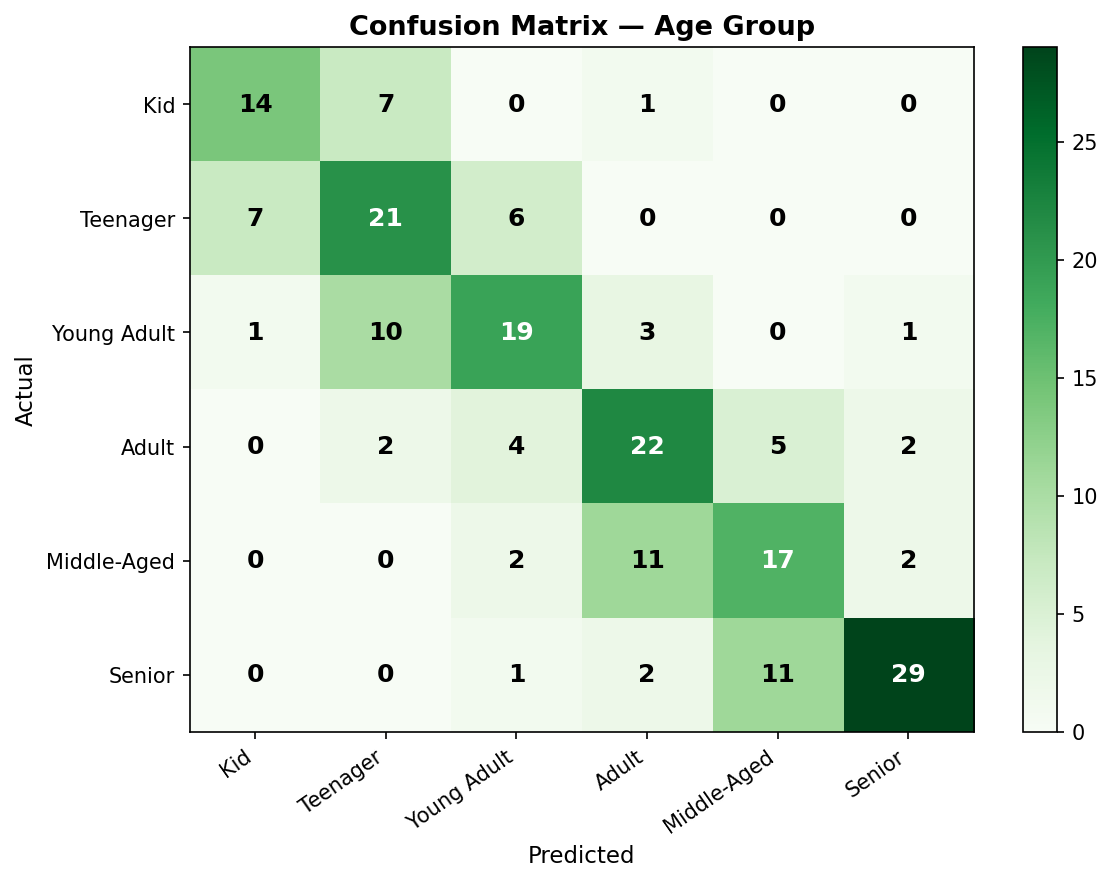
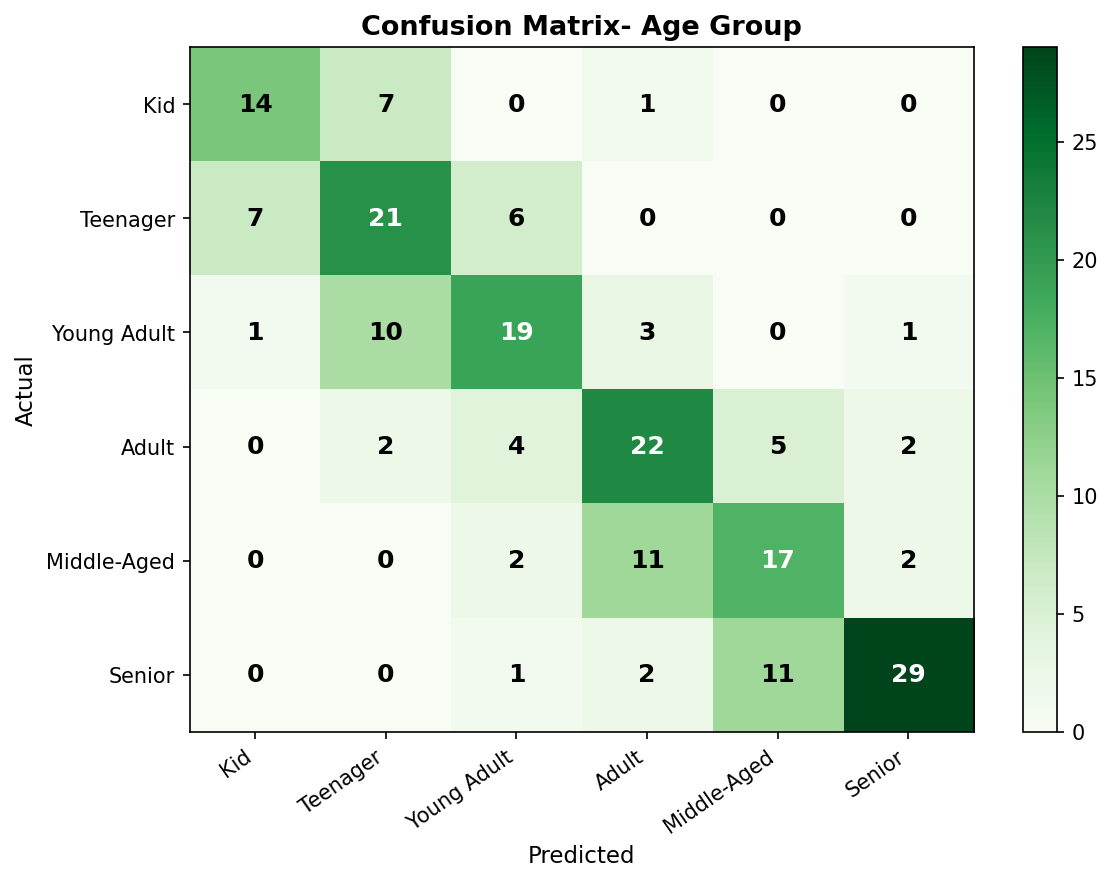
improved logic and feature comparison

Changed region(s): [[0.3055, 0.0, 0.7332, 0.0612]]

diff --git a/classification.py b/classification.py
@@ -5,6 +5,7 @@ import pandas as pd
 import numpy as np
 import matplotlib.pyplot as plt
 import warnings
+import datetime
 warnings.filterwarnings("ignore")
 
 from sklearn.ensemble import RandomForestClassifier
@@ -16,10 +17,12 @@ csv_path = "quiz_responses.csv"
 test_size = 0.2
 random_state = 42
 n_estimators = 300
+current_year = datetime.date.today().year
 
 features = [
     "grief", "rage", "control", "numb", "secrecy", "obsession", "compassion", "trauma", "envy", "chaos", "revenge"
 ]
+age_order = ["Kid", "Teenager", "Young Adult", "Adult", "Middle-Aged", "Senior"]
 palette_age = {
     "Kid": "#F4A261", 
     "Teenager": "#E63946",
@@ -37,18 +40,63 @@ palette_city = {
     "Noida":     "#8D99AE",
 }
 
+n_traits = len(features)
+angles = np.linspace(0, 2 * np.pi, n_traits, endpoint=False).tolist() + [0]
+angle_deg = np.degrees(angles[:-1])
+
 def savefig(name):
     plt.savefig(name, dpi=150, bbox_inches="tight")
     plt.close()
     print(f"Saved: {name}")
 
+def age_to_group(age):
+    if   age <= 9:  return "Kid"
+    elif age <= 17: return "Teenager"
+    elif age <= 27: return "Young Adult"
+    elif age <= 39: return "Adult"
+    elif age <= 49: return "Middle-Aged"
+    elif age <= 60: return "Senior"
+    return None
+
+def plot_radar(ax, means_row, color, title, top_trait):
+    vals = means_row.values.tolist() + [means_row.values[0]]
+    ax.plot(angles, vals, color=color, linewidth=2)
+    ax.fill(angles, vals, color=color, alpha=0.25)
+    ax.set_thetagrids(angle_deg, labels=features, fontsize=8)
+    ax.set_ylim(0, 4)
+    ax.set_yticks([1, 2, 3, 4])
+    ax.set_yticklabels(["1", "2", "3", "4"], size=7, color="grey")
+    ax.set_title(title, size=12, fontweight="bold", color=color, pad=12)
+    ax.annotate(f"↑ {top_trait}", xy=(0.5, -0.12), xycoords="axes fraction",
+                ha="center", fontsize=9, color=color, fontstyle="italic")
+ 
+def plot_confusion_matrix(y_true, y_pred, labels, title, cmap, filename):
+    cm = confusion_matrix(y_true, y_pred, labels=labels)
+    fig, ax = plt.subplots(figsize=(8, 6))
+    im = ax.imshow(cm, cmap=cmap, aspect="auto")
+    plt.colorbar(im, ax=ax)
+    ax.set_xticks(range(len(labels)))
+    ax.set_yticks(range(len(labels)))
+    ax.set_xticklabels(labels, rotation=35, ha="right", fontsize=10)
+    ax.set_yticklabels(labels, fontsize=10)
+    ax.set_xlabel("Predicted", fontsize=11)
+    ax.set_ylabel("Actual", fontsize=11)
+    ax.set_title(title, fontsize=13, fontweight="bold")
+    thresh = cm.max() / 2
+    for i in range(len(labels)):
+        for j in range(len(labels)):
+            ax.text(j, i, str(cm[i, j]), ha="center", va="center",
+                    fontsize=12, fontweight="bold",
+                    color="white" if cm[i, j] > thresh else "black")
+    fig.tight_layout()
+    savefig(filename)
+
 #load and prep
 
 df = pd.read_csv(csv_path)
-df["age"] = 2026 - df["birthyear"]
-bins = [0, 9, 17, 27, 39, 49, 60]
-age_order = ["Kid", "Teenager", "Young Adult", "Adult", "Middle-Aged", "Senior"]
-df["age_group"] = pd.cut(df["age"], bins= bins, labels=age_order).astype(str)
+df["age"] = current_year - df["birthyear"]
+df["age_group"] = df["age"].apply(age_to_group)
+df = df.dropna(subset=["age_group"])
 
 print(f"Loaded {len(df)} rows")
 print("Age groups:", df["age_group"].value_counts().to_dict())
@@ -59,7 +107,7 @@ print("Cities:", df["city"].value_counts().to_dict())
 def build_trait_features(data):
     feat_df = data[features].copy()
     for a,b in combinations (features, 2):
-        feat_df[f"{a}_vs_{b}"] = data[a] - data[b]
+        feat_df[f"{a}_vs_{b}"] = data[a].values - data[b].values
     return feat_df
 x_full = build_trait_features(df)
 print(f"Total features (raw + parirwise diffs): {x_full.shape[1]}\n")
@@ -96,41 +144,24 @@ ax.set_xticks(range(len(features)))
 ax.set_xticklabels(features, rotation=35, ha="right", fontsize=11)
 ax.set_yticks(range(len(age_order)))
 ax.set_yticklabels(age_order, fontsize=11)
-for i in range(len(age_order)):
-    for j in range(len(features)):
-        v = age_means.values[i, j]
-        ax.text(j, i, f"{v:.1f}", ha="center", va="center", fontsize=9, color="black", fontweight="bold")
+
+for i, grp in enumerate(age_order):
+    for j, trait in enumerate(features):
+        ax.text(j, i, f"{age_means.loc[grp, trait]:.1f}",
+                ha="center", va="center", fontsize=9, color="black", fontweight="bold")
 plt.colorbar(im, ax=ax, label="Normalised Intensity")
 ax.set_title("Trait Dominance by Age Group", fontsize=14, fontweight="bold", pad=12)
 plt.tight_layout()
 savefig("age_trait_heatmap.png")
 
 #2. Radar charts
-n = len(features)
-angles = np.linspace(0, 2*np.pi, n, endpoint=False).tolist()
-angles += angles[:1]
-
 fig, axes = plt.subplots(2,3, figsize=(14,9), subplot_kw=dict(polar=True))
 fig.suptitle("Emotional Trait Profiles- Age Groups", fontsize=15, fontweight="bold")
-axes= axes.flatten()
 
-for idx, grp in enumerate(age_order):
-    ax = axes[idx]
-    vals = age_means.loc[grp].values.tolist() + [age_means.loc[grp].values[0]]
-    color = palette_age[grp]
-    ax.plot(angles, vals, color=color, linewidth=2)
-    ax.fill(angles, vals, color=color, alpha=0.25)
-    ax.set_xticks(angles[:-1])
-    ax.set_xticklabels(features, size=8)
-    ax.set_ylim(0,4)
-    ax.set_yticks([1,2,3,4])
-    ax.set_yticklabels(["1", "2", "3", "4"], size=7, color="grey")
-    ax.set_title(grp, size=12, fontweight="bold", color=color, pad=12)
-    top_trait = age_means.loc[grp].idxmax()
-    ax.annotate(f"{top_trait}", xy=(0.5,-0.12), xycoords="axes fraction",
-                ha="center", fontsize=9, color=color, fontstyle="italic")
+for ax, grp in zip(axes.flatten(), age_order):
+    plot_radar(ax, age_means.loc[grp], palette_age[grp], grp, age_means.loc[grp].idxmax())
     
-plt.tight_layout()
+fig.tight_layout()
 savefig("age_radar_profiles.png")
 
 # 3. Dominant & weakest trait per age group
@@ -160,100 +191,129 @@ ax.set_ylabel("Mean score (0-4)", fontsize=11)
 ax.set_title("Strongest & Weakest Trait per Age Group", fontsize=13, fontweight="bold")
 ax.legend(fontsize=9)
 ax.grid(axis="y", alpha=0.3)
+fig.tight_layout()
 savefig("age_dominant_traits.png")
 
 # 4. Confusion Matrix
-def plot_confusion_matrix(y_true, y_pred, labels, title, cmap, filename):
-    cm = confusion_matrix(y_true, y_pred, labels=labels)
-    fig, ax = plt.subplots(figsize=(8, 6))
-    im = ax.imshow(cm, cmap=cmap, aspect="auto")
-    plt.colorbar(im, ax=ax)
-    ax.set_xticks(range(len(labels)))
-    ax.set_yticks(range(len(labels)))
-    ax.set_xticklabels(labels, rotation=35, ha="right", fontsize=10)
-    ax.set_yticklabels(labels, fontsize=10)
-    ax.set_xlabel("Predicted", fontsize=11)
-    ax.set_ylabel("Actual", fontsize=11)
-    ax.set_title(title, fontsize=13, fontweight="bold")
-    thresh = cm.max() / 2
-    for i in range(len(labels)):
-        for j in range(len(labels)):
-            ax.text(j, i, str(cm[i, j]), ha="center", va="center",
-                    fontsize=12, fontweight="bold",
-                    color="white" if cm[i, j] > thresh else "black")
-    plt.tight_layout()
-    savefig(filename)
- 
-plot_confusion_matrix(y_te_age, y_pred_age, age_order, "Confusion Matrix — Age Group", 
-                      "Greens", "age_confusion_matrix.png")
+plot_confusion_matrix(y_te_age, y_pred_age, age_order,
+                      "Confusion Matrix- Age Group", "Greens", "age_confusion_matrix.png")
 
 # City Classification Visualisations
 
 city_order = sorted(df["city"].unique().tolist())
 city_means = df.groupby("city")[features].mean().loc[city_order]
+n_cities = len(city_order)
 
 # 1. Heatmap
 fig, ax = plt.subplots(figsize=(13,7))
 data_norm_c=(city_means-city_means.min())/(city_means.max()-city_means.min())
 im2= ax.imshow(data_norm_c.values, cmap="Blues", aspect="auto", vmin=0, vmax=1)
-ax.set_x(range(len(features)))
+ax.set_xticks(range(len(features)))
 ax.set_xticklabels(features, rotation=35, ha="right", fontsize=11)
-ax.set_yticks(range(len(city_order)))
+ax.set_yticks(range(n_cities))
 ax.set_yticklabels(city_order, fontsize=11)
 
-for i in range (len(city_order)):
-    for j in range(len(features)):
-        v = city_means.values[i,j]
-        ax.text(j,i, f"{v:.1f}", ha="center", va="center",
-                fontsize=9, color="black", fontweight="bold")
+for i, city in enumerate(city_order):
+    for j, trait in enumerate(features):
+        ax.text(j, i, f"{city_means.loc[city, trait]:.1f}",
+                ha="center", va="center", fontsize=9, color="black", fontweight="bold")
 plt.colorbar(im2, ax=ax, label="Normalised Intensity")
 ax.set_title("Trait Dominance by City", fontsize=14, fontweight="bold", pad=12)
-plt.tight_layout()
+fig.tight_layout()
 savefig("city_trait_heatmap.png")
 
 # 2. Top3 Traits per city (dot chart)
-fig, ax= plt.subplots(figsize=(12,7))
+trait_idx = {t:i for i,t in enumerate(features)}
+fig, ax = plt.subplots(figsize=(12, 7))
 for ci, city in enumerate(city_order):
-    row = city_means.loc[city].sort_values(ascending=False)
-    for rank, (trait, val) in enumerate(row.head(3).items()):
-        size = [220, 140, 80][rank]
+    for rank, (trait, val) in enumerate(
+            city_means.loc[city].sort_values(ascending=False).head(3).items()):
+        size  = [220, 140, 80][rank]
         alpha = [1.0, 0.70, 0.50][rank]
-        ax.scatter(features.index(trait), ci, s=size, color=palette_city[city], alpha= alpha, zorder=3)
-        ax.text(features.index(trait), ci+0.32, f"{val:.1f}", ha="center", fontsize=7.5, color="#333")
+        ax.scatter(trait_idx[trait], ci, s=size,
+                   color=palette_city.get(city, "#888"), alpha=alpha, zorder=3)
+        ax.text(trait_idx[trait], ci + 0.32,
+                f"{val:.1f}", ha="center", fontsize=7.5, color="#333")
     
 ax.set_xticks(range(len(features)))
 ax.set_xticklabels(features, fontsize=11, rotation=25, ha="right")
-ax.set_yticks(range(len(city_order)))
+ax.set_yticks(range(n_cities))
 ax.set_yticklabels(city_order, fontsize=11)
 ax.set_xlim(-0.6, len(features) - 0.4)
-ax.set_ylim(-0.8, len(city_order) - 0.3)
+ax.set_ylim(-0.8, n_cities - 0.3)
 ax.grid(alpha=0.2)
 ax.set_title("Top-3 Dominant Traits per City  (size = rank, label = mean score)",
              fontsize=13, fontweight="bold")
-plt.tight_layout()
+fig.tight_layout()
 savefig("city_top_traits_dot.png")
 
 # 3. City Radar
-fig, axes = plt.subplots(2,6, figsize=(22,8), subplot_kw=dict(polar=True))
-fig.suptitle("Emotional Trait Profiles- Cities", fontsize=15, fontweight="bold")
-axes=axes.flatten()
-
+n_cols = 6
+n_rows = (n_cities + n_cols - 1) // n_cols
+fig, axes = plt.subplots(n_rows, n_cols, figsize=(22, 8), subplot_kw=dict(polar=True))
+fig.suptitle("Emotional Trait Profiles — Cities", fontsize=15, fontweight="bold")
+axes_flat = axes.flatten()
+ 
 for idx, city in enumerate(city_order):
-    ax= axes[idx]
-    vals= city_means.loc[city].values.tolist() + [city_means.loc[city].values[0]]
-    color= palette_city.get(city, "#888")
-    ax.plot(angles, vals, color=color, linewidth=2)
-    ax.fill(angles, vals, color=color, alpha=0.5)
-    ax.set_xticks(angles[:-1])
-    ax.set_xticklabels(features, size=7)
-    ax.set_ylim(0,4)
-    ax.set_yticks([1,2,3])
-    ax.set_yticklabels(["1", "2", "3"], size=6, color="grey")
-    ax.set_title(city, size=11, fontweight="bold", color=color, pad=10)
-    top_trait = city_means.loc[city].idxmax()
-    ax.annotate(f"{top_trait}", xy=(0.5, -0.12), xycoords="axes fraction",
-                ha="center", fontsize=8, color=color, fontstyle="italic")
+    plot_radar(axes_flat[idx], city_means.loc[city],
+               palette_city.get(city, "#888"), city,
+               city_means.loc[city].idxmax())
+ 
+for idx in range(n_cities, len(axes_flat)):
+    axes_flat[idx].set_visible(False)
 
 plt.tight_layout()
 savefig("city_radar_profiles.png")
 
+# Confusion Matrix for City
+plot_confusion_matrix(y_te_city, y_pred_city, city_order,
+                      "Confusion Matrix — City", "Blues",
+                      "city_confusion_matrix.png")
+
+# Age vs City
+
+def rolled_importance(rf):
+    fi = pd.Series(rf.feature_importances_, index=x_full.columns)
+    trait_scores = {t: 0.0 for t in features}
+    for fname, imp in fi.items():
+        tokens = fname.replace("_vs_", "|").split("|")
+        for t in features:
+            if t in tokens:
+                trait_scores[t] += imp
+    total = sum(trait_scores.values())
+    return {k: v / total for k, v in trait_scores.items()}
+ 
+fi_age  = rolled_importance(rf_age)
+fi_city = rolled_importance(rf_city)
+fi_df = pd.DataFrame({"Age Group": fi_age, "City": fi_city}).sort_values("Age Group")
+ 
+traits  = fi_df.index.tolist()
+n       = len(traits)
+x       = np.arange(n)
+fig, ax = plt.subplots(figsize=(10, 6))
+ 
+bars1 = ax.barh(x - 0.2, fi_df["Age Group"].values, height=0.36,
+                label="Age Group", color="#1D9E75", alpha=0.88)
+bars2 = ax.barh(x + 0.2, fi_df["City"].values,      height=0.36,
+                label="City",      color="#378ADD", alpha=0.88)
+ 
+for bar in bars1:
+    w = bar.get_width()
+    ax.text(w + 0.002, bar.get_y() + bar.get_height() / 2,
+            f"{w:.3f}", va="center", ha="left", fontsize=8, color="#1D9E75")
+for bar in bars2:
+    w = bar.get_width()
+    ax.text(w + 0.002, bar.get_y() + bar.get_height() / 2,
+            f"{w:.3f}", va="center", ha="left", fontsize=8, color="#378ADD")
+ 
+ax.set_yticks(x)
+ax.set_yticklabels(traits, fontsize=11)
+ax.set_ylim(-0.6, n - 0.4)
+ax.set_xlim(0, fi_df.values.max() * 1.35)
+ax.set_xlabel("Relative trait importance", fontsize=11)
+ax.set_title("Which Traits Matter Most — Age Group vs City",
+             fontsize=13, fontweight="bold")
+ax.legend(fontsize=10)
+ax.grid(axis="x", alpha=0.3)
+plt.tight_layout()
+savefig("feature_importance_comparison.png")
